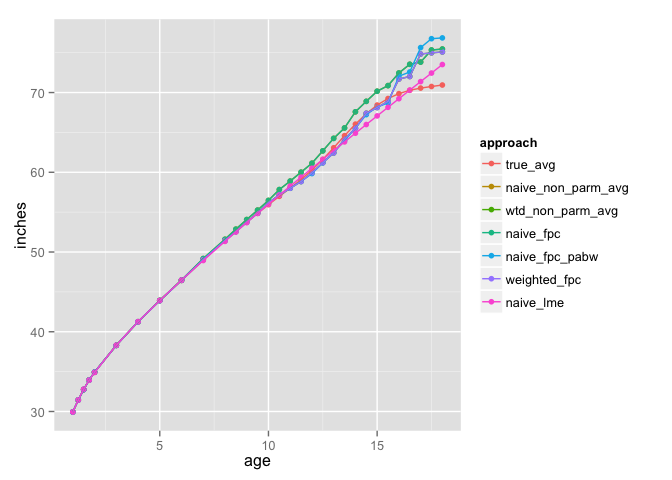
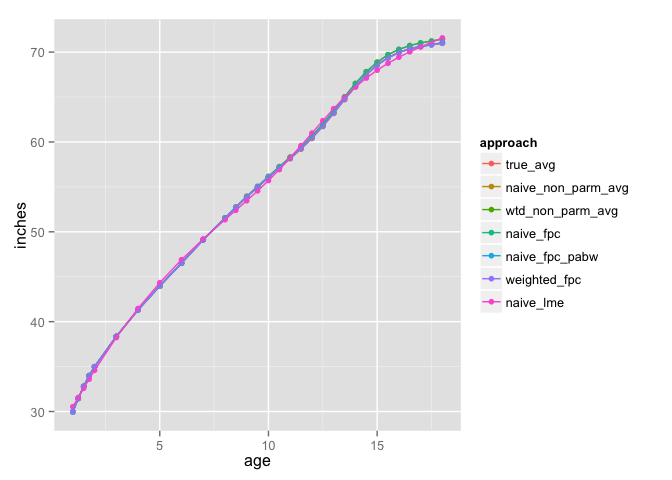
adjust coefs

diff --git a/readMe.md b/readMe.md
@@ -19,7 +19,11 @@ over_samp_mat<-sample_data(d,1000, seed=101)
 with_ses <- calculate_ses(over_samp_mat, slope=100, intercept=12)
 long <-make_long(with_ses)
 head(long)
-censored <- apply_censoring(long, ses_coef=.1, age_coef=.2)
+censored <- apply_censoring(long, ses_coef=.025, age_coef=.025)
+ddply(censored, .(age), function(w) sum(w$instudy==1) )
+melt.prob.cens=ddply(censored, .(newid,age), function(w) w$prob.cens )
+dcast.prob.cens=dcast(melt.prob.cens, newid~age, value.var="V1")
+apply(dcast.prob.cens, 2, function(w) round(range(w),2))
 head(censored,18)
 observed_with_stipw <- calculate_stipw(censored,"omit")
 wtd_trajectories <- calculate_wtd_trajectories(observed_with_stipw)
@@ -29,6 +33,14 @@ head(wtd_trajectories)
 ## truth, all data:
 true_avg <- ddply(long, .(age), function(w)  mean(w$inches))
 true_avg$approach<- "true_avg"
+##?? is kmeans on all data the same as an fpca on the all data??
+# age_vec <- c(sort(unique(long$age)))
+# truth_fpca <- dcast(data=long, formula= newid~age, value.var="inches")
+# fpca_truth_fpca <- fpca.face(Y=as.matrix(truth_fpca[,-1]), argvals=age_vec, knots=26)
+# identical(fpca_truth_fpca$mu, true_avg[,2])
+## cbind(fpca_truth_fpca$mu, true_avg[,2])
+# plot(fpca_truth_fpca$mu, true_avg[,2]);abline(a=0,b=1,col="blue")
+
 
 
 ## compare the bias of mean trajectories of the following approaches applied to the 
@@ -117,9 +129,9 @@ round(results,2)
 
 ```
 ##   naive_non_parm_avg wtd_non_parm_avg naive_fpc naive_fpc_pabw
-## 1               1.26             0.49      1.26           0.44
+## 1               0.23             0.04      0.23           0.04
 ##   weighted_fpc naive_lme
-## 1         0.49      0.82
+## 1         0.04      0.38
 ```
 
 
